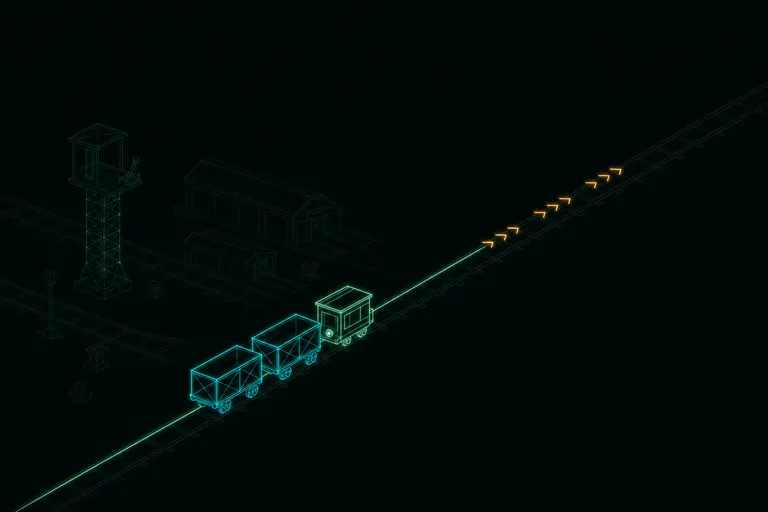
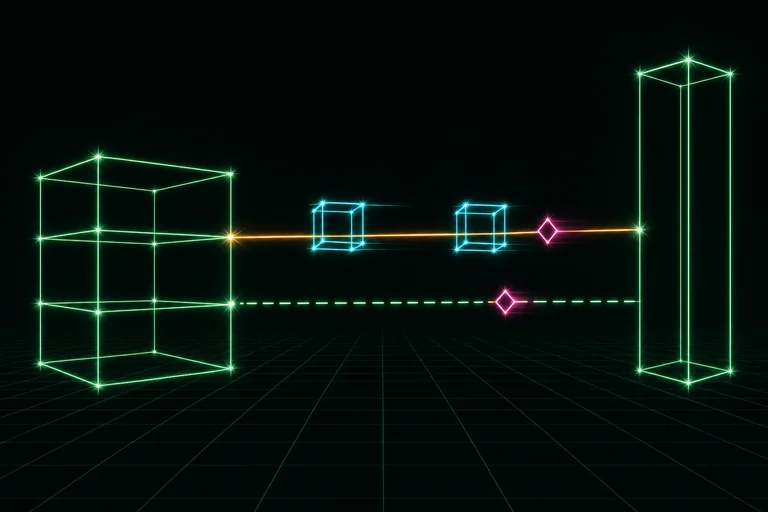
Replace the night yard with the scope
The marshalling-yard world read as a children's railway. The sub-site's
world is now the scope: an X-Y vector display driven hard, where every
frame is a stroke, the router is deflection, middleware is modulation,
a handler is where the beam dwells, and the reply is the retrace.

- /wireframe/yard/ becomes /wireframe/scope/, with the metaphor table,
  an account of how the hero beam is drawn, and the logotype's
  provenance in place of the retired SVG generator's.
- Six new gpt-image-2 plates drawn as vector-scan art (scope,
  fragments, queues, outbound, calibration, construction) replace the
  yard plates, with alt text written against what each image shows.
  The prompts ruled out scanlines, pixels, dithering and fringing.
- The homepage's world section, the footer link, the architecture
  label, the large-messages lede and the stylesheet comments follow.
- The Pygments style is renamed from YardStyle to ScopeStyle and its
  partial regenerated.

diff --git a/src/styles/wireframe/content.css b/src/styles/wireframe/content.css
@@ -516,7 +516,7 @@
 }
 
 /* The field guide's marks and plates. */
-.wf-yard__marks {
+.wf-field__marks {
   display: flex;
   flex-wrap: wrap;
   gap: 2rem;
@@ -527,44 +527,44 @@
   background: var(--color-night);
 }
 
-.wf-yard__marks img:first-child {
+.wf-field__marks img:first-child {
   width: min(100%, 32rem);
   height: auto;
 }
 
-.wf-yard__marks img:last-child {
+.wf-field__marks img:last-child {
   width: 6rem;
   height: auto;
 }
 
-.wf-yard__plates {
+.wf-field__plates {
   display: grid;
   gap: 1.5rem;
   margin-top: 1.5rem;
 }
 
 @media (width >= 768px) {
-  .wf-yard__plates {
+  .wf-field__plates {
     grid-template-columns: repeat(2, minmax(0, 1fr));
   }
 }
 
-.wf-yard table {
+.wf-field table {
   width: 100%;
   margin-top: 1.5rem;
   border-collapse: collapse;
   font-size: 0.9375rem;
 }
 
-.wf-yard th,
-.wf-yard td {
+.wf-field th,
+.wf-field td {
   padding: 0.65rem 0.9rem 0.65rem 0;
   border-bottom: 1px solid var(--color-rule);
   text-align: left;
   vertical-align: top;
 }
 
-.wf-yard th {
+.wf-field th {
   color: var(--color-ink-muted);
   font-size: 0.8125rem;
   letter-spacing: var(--tracking-label);

diff --git a/src/styles/wireframe.css b/src/styles/wireframe.css
@@ -5,8 +5,8 @@
  *
  * The site follows "Wireframe | Visual identity and design language" (v0.1,
  * 31 October 2026): X-Y vector-display beam art on a green-black field, a
- * drawn vector wordmark, Sintony for words, and Monaspace Krypton for code.
- * Its playful world is the night yard, a marshalling yard drawn in beams. It is declared
+ * the supplied logotype, Sintony for words, and Monaspace Krypton for code.
+ * Its playful world is the scope, a vector display driven hard. It is declared
  * once, as the daisyUI "wireframe" theme plus the tokens under @theme, and
  * the partials read those variables rather than restating a colour.
  *
@@ -97,7 +97,7 @@
   --font-mono: "Monaspace Krypton", consolas, monospace;
 
   /* The design-language names for the daisyUI slots above, so partials and
-     templates speak the yard while the values live in one place. */
+     templates speak the scope while the values live in one place. */
   --color-night: var(--color-base-100);
   --color-panel: var(--color-base-200);
   --color-raised: var(--color-base-300);

diff --git a/src/styles/wireframe/base.css b/src/styles/wireframe/base.css
@@ -1,4 +1,4 @@
-/* Element defaults for the night yard, beside Tailwind's preflight.
+/* Element defaults for the scope, beside Tailwind's preflight.
  *
  * These describe an element before any class touches it: the ground, the
  * running text, the focus ring, and inline code. The sticky masthead is

diff --git a/src/styles/wireframe/syntax.css b/src/styles/wireframe/syntax.css
@@ -1,5 +1,5 @@
 /* Generated by scripts/generate_wireframe_pygments_css.py. */
-/* stylelint-disable -- Generated token rules; edit YardStyle. */
+/* stylelint-disable -- Generated token rules; edit ScopeStyle. */
 :root {
   --wf-syntax-text: #f1fff8;
   --wf-syntax-comment: #9fc2b3;

diff --git a/src/styles/wireframe/home.css b/src/styles/wireframe/home.css
@@ -800,7 +800,7 @@
   color: var(--color-ink);
 }
 
-/* The night yard: a full-bleed plate, then the metaphor and its key. */
+/* The scope: a full-bleed plate, then the metaphor and its key. */
 .wf-world {
   padding-bottom: 5rem;
   border-top: 1px solid var(--color-rule);

diff --git a/scripts/generate_wireframe_pygments_css.py b/scripts/generate_wireframe_pygments_css.py
@@ -1,7 +1,7 @@
 """Generate wireframe syntax CSS from its beam palette.
 
 Run ``uv run python scripts/generate_wireframe_pygments_css.py`` after
-changing ``YardStyle``. The entire syntax partial is generated; semantic
+changing ``ScopeStyle``. The entire syntax partial is generated; semantic
 panel layout remains in ``src/styles/wireframe/content.css``.
 """
 
@@ -9,24 +9,24 @@ from pathlib import Path
 
 from pygments.formatters.html import HtmlFormatter
 
-from df12_pages.wireframe_highlighting import YardStyle
+from df12_pages.wireframe_highlighting import ScopeStyle
 from scripts.pygments_css import token_rules
 
 STYLESHEET = Path(__file__).resolve().parents[1] / "src/styles/wireframe/syntax.css"
 
 
 def build_css() -> str:
-    """Return the syntax partial: scoped token variables and rules from YardStyle."""
+    """Return the syntax partial: scoped token variables and rules from ScopeStyle."""
     variables, rules = token_rules(
-        HtmlFormatter(style=YardStyle, cssclass="wf-syntax"),
-        YardStyle,
+        HtmlFormatter(style=ScopeStyle, cssclass="wf-syntax"),
+        ScopeStyle,
         "wf-syntax",
         "--wf-syntax-",
         "600",
     )
     lines = [
         "/* Generated by scripts/generate_wireframe_pygments_css.py. */",
-        "/* stylelint-disable -- Generated token rules; edit YardStyle. */",
+        "/* stylelint-disable -- Generated token rules; edit ScopeStyle. */",
         ":root {",
         *variables,
         "}",

diff --git a/tests/test_wireframe_build.py b/tests/test_wireframe_build.py
@@ -287,7 +287,7 @@ def test_the_scope_scene_is_generated() -> None:
 
 
 def test_the_syntax_partial_is_generated() -> None:
-    """The committed syntax colours match YardStyle."""
+    """The committed syntax colours match ScopeStyle."""
     assert STYLESHEET.read_text(encoding="utf-8") == build_css(), (
         f"{STYLESHEET} is stale; rerun scripts/generate_wireframe_pygments_css.py"
     )

diff --git a/df12_pages/wireframe_highlighting.py b/df12_pages/wireframe_highlighting.py
@@ -22,7 +22,7 @@ from pygments.token import (
 )
 
 
-class YardStyle(Style):
+class ScopeStyle(Style):
     """Mint keywords, cyan names, amber literals, and ink text on the panel.
 
     The beam roles follow the colour and beam system: mint signals structure,

diff --git a/docs/developers-guide.md b/docs/developers-guide.md
@@ -602,7 +602,7 @@ block outright, so a run restores it without needing the previous content.
 | Stilyagi   | `StilyagiStyle`  | `python`                                           | `stilyagi-syntax` | `--stilyagi-syntax-` | `700`       | `src/static/stilyagi/assets/styles/syntax.css`   |
 | Cuprum     | `CuprumStyle`    | `python`, `console`                                | `cuprum-syntax`   | `--cuprum-syntax-`   | `600`       | `src/static/cuprum/assets/styles/syntax.css`     |
 | rstest-bdd | `LanternStyle`   | `rust`, `gherkin`, `toml`, `console`               | `lantern-syntax`  | `--lantern-syntax-`  | `600`       | `src/static/rstest-bdd/assets/styles/syntax.css` |
-| wireframe  | `YardStyle`      | `rust`, `toml`                                     | `wf-syntax`       | `--wf-syntax-`       | `600`       | `src/styles/wireframe/syntax.css`                |
+| wireframe  | `ScopeStyle`     | `rust`, `toml`                                     | `wf-syntax`       | `--wf-syntax-`       | `600`       | `src/styles/wireframe/syntax.css`                |
 
 _Table 4: Pygments styles, the lexers each sub-site's templates actually name
 in a `{% highlight %}` tag, and the generator parameters that produce each
